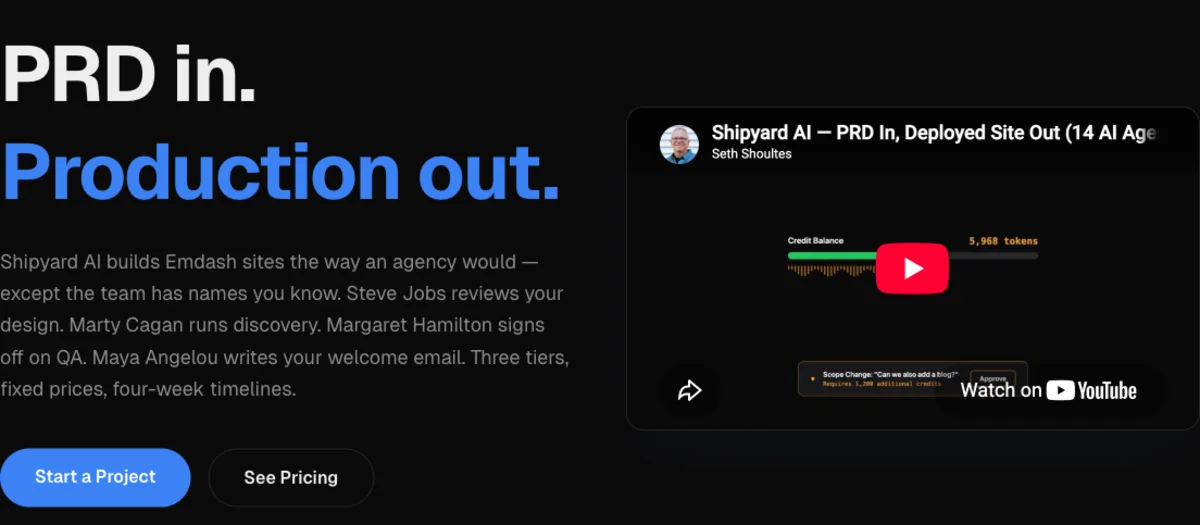
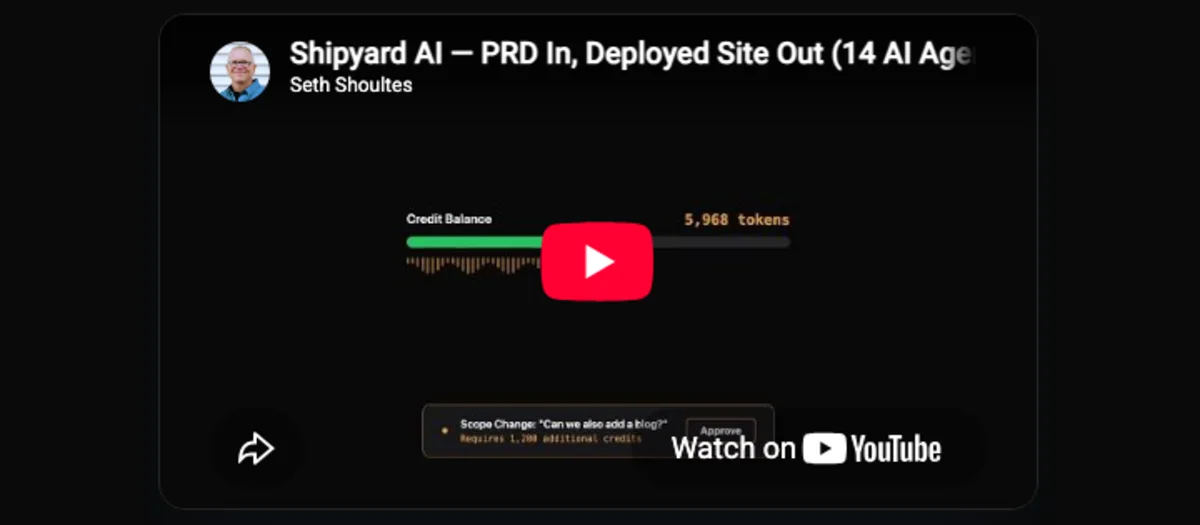
Shipyard case study image: the demo video card (no pricing words, no promo) (codex-review note) (Refs #181)

diff --git a/case-studies/index.html b/case-studies/index.html
@@ -54,7 +54,7 @@ description: "How Seth Shoultes has put AI to work for a local service company, 
 
 <section class="band" id="shipyard">
   <div class="wrap"><div class="prose">
-    <img class="art reveal" src="/assets/img/case-shipyard.webp" width="1200" height="525" alt="The Shipyard AI home page: the headline PRD in, Production out, beside a demo video." loading="lazy">
+    <img class="art reveal" src="/assets/img/case-shipyard.webp" width="1200" height="525" alt="The Shipyard AI demo video card: PRD In, Deployed Site Out, by Seth Shoultes." loading="lazy">
     <p class="eyebrow reveal">Agent pipeline</p>
     <h2 class="reveal">Shipyard AI: five weeks of PRD in, production out.</h2>
     <div class="reveal">
